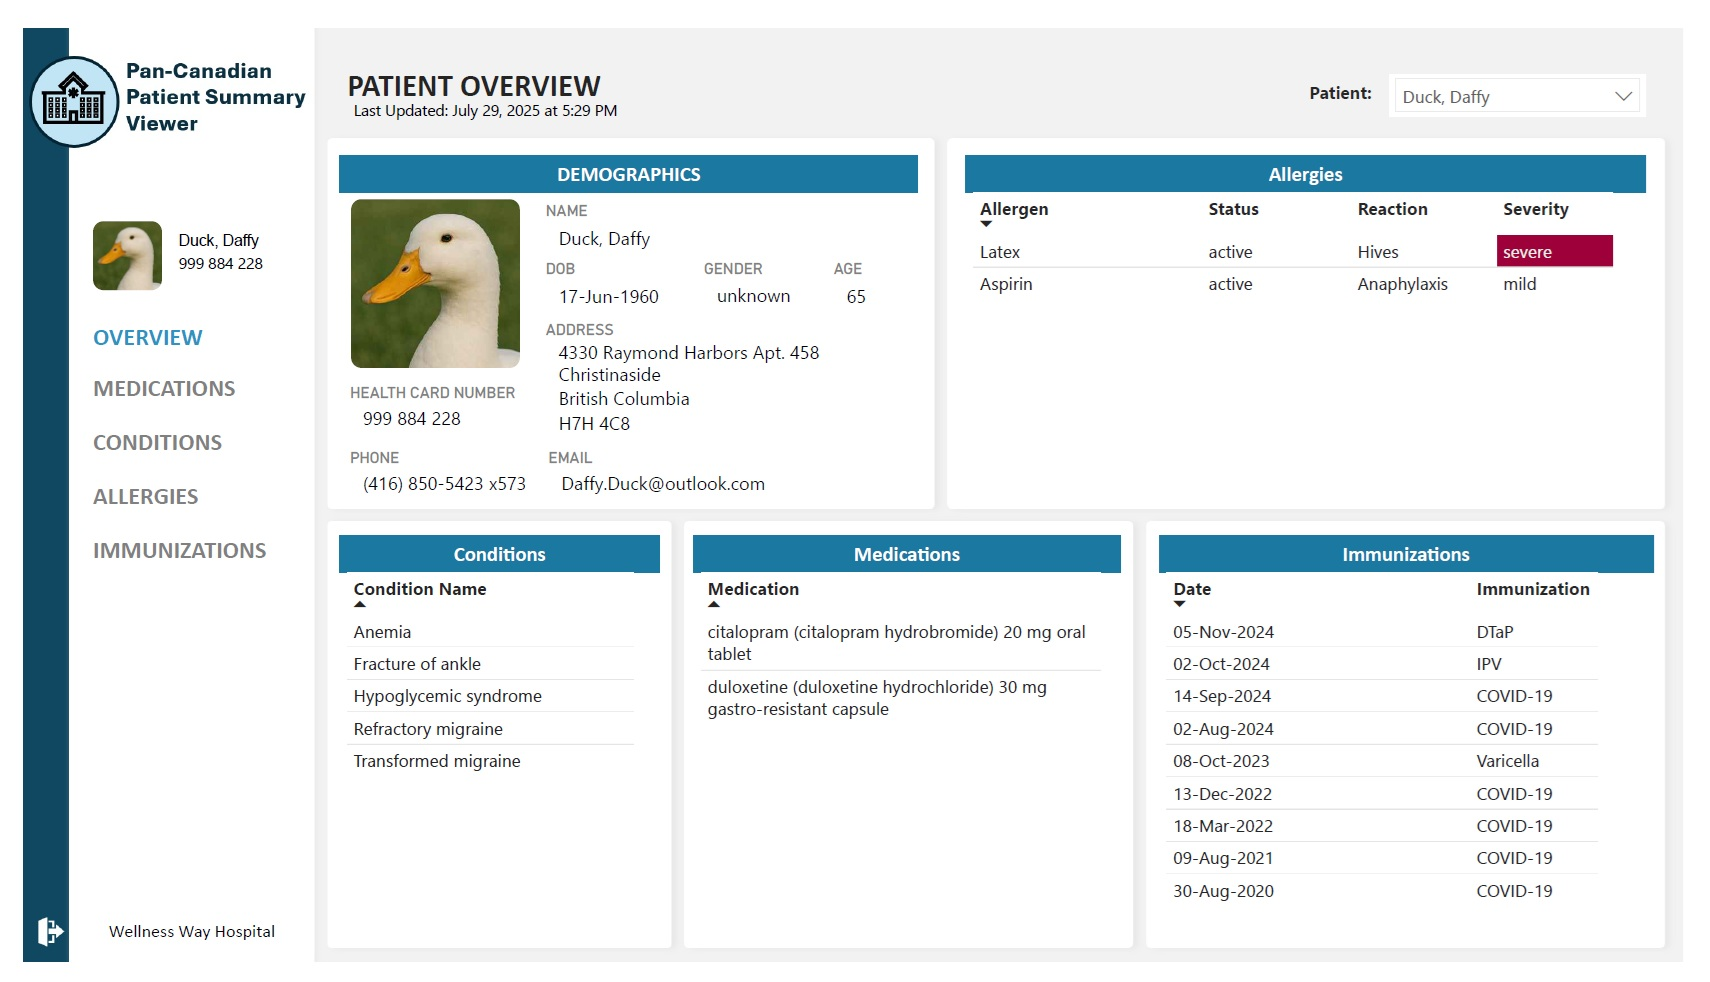
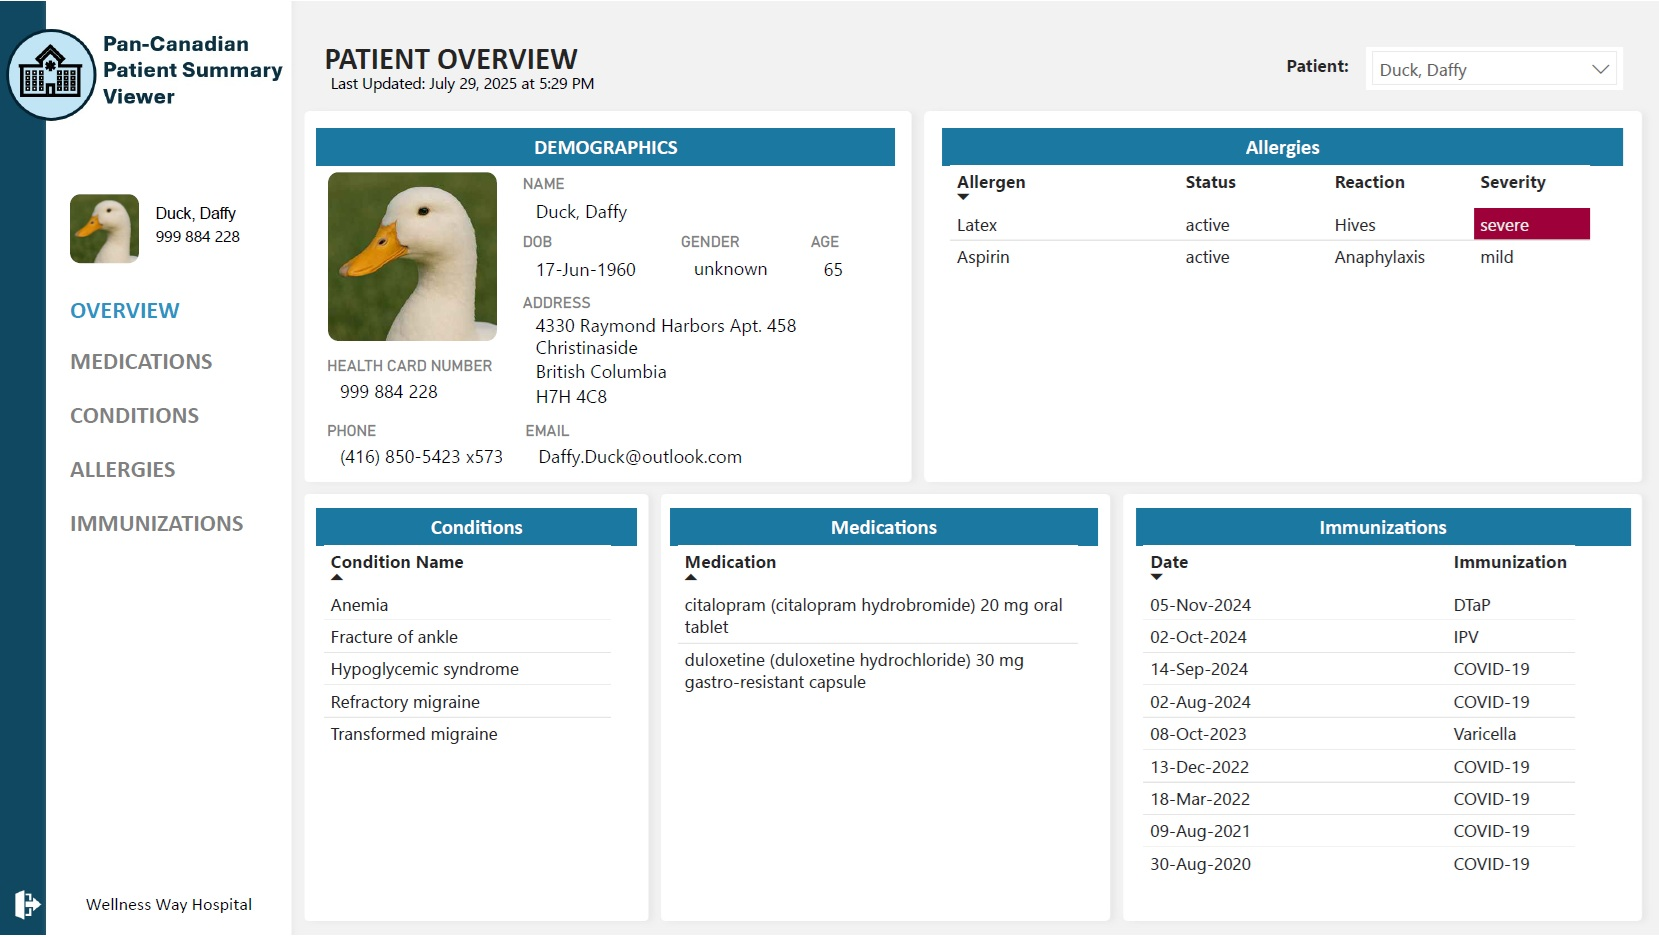
Fix sizing of Patient Overview page screenshot

diff --git a/docs/pan-canadian-patient-summary.md b/docs/pan-canadian-patient-summary.md
@@ -1,10 +1,6 @@
 # Pan-Canadian Patient Summary (PS-CA)
 
-## Introduction
-
-The Pan-Canadian Patient Summary (PS-CA) is a standardized extract of a patient’s health record designed to support continuity of care across borders and healthcare settings. It is based on the International Patient Summary (IPS) standard, and adapts this global framework to the Canadian context by incorporating national terminologies and jurisdiction-specific workflows.
-
-The PS-CA enables clinicians to access essential health information—such as medications, allergies, and health concerns—without needing to navigate multiple systems or sift through unstructured notes. It supports both scheduled and unscheduled care, and is designed to be usable across diverse technical environments, including legacy systems and modern FHIR-based platforms.
+The [Pan-Canadian Patient Summary (PS-CA)](https://www.infoway-inforoute.ca/en/featured-initiatives/patient-summary) is a standardized extract of a patient’s health record designed to support continuity of care across borders and healthcare settings. It is based on the International Patient Summary (IPS) standard, and adapts this global framework to the Canadian context by incorporating national terminologies and jurisdiction-specific workflows. It enables clinicians to access essential health information—such as medications, allergies, and health concerns—without needing to navigate multiple systems or sift through unstructured notes. It supports both scheduled and unscheduled care, and is designed to be usable across diverse technical environments, including legacy systems and modern FHIR-based platforms.
 
 ![Screenshot of IPS composition showing required sections as: Header (subject, author, attester, custodian), Medication Summary, Allergies & Intolerances, and Problem List](images/ips-composition.png)
 (Image Source: https://build.fhir.org/ig/HL7/fhir-ips/Structure-of-the-International-Patient-Summary.html)
@@ -14,7 +10,6 @@ The PS-CA enables clinicians to access essential health information—such as me
 - [Connected Care: The Power of the Patient Summary](https://youtu.be/LXLj0ElsRNg?si=D8Q_G8KvZu4vgfu6)
 - [What Connected Care Means to the Future of Canada's Health Care System](https://youtu.be/XoqzMAULasg?si=yuLXjGBJvAWEVZ8i)
 - [DevDays (2024):  Moving to "Real" International Patient Summary (IPS) Implementations (Robert Hausam)](https://youtu.be/I86G6PyoVrg?si=_v1ChxnK1lovMWea)
-
 - [IHE North America (2024): The International Patient Summary: A Worldwide Initiative](https://youtu.be/HKmmZQTK6BU?si=FrcU6xVTF7AhaRLD)
 - [IHE Europe (2023): The Pan Canadian Patient Summary](https://youtu.be/YLsvI5GUc30?si=PUktY4Y5YWXuH-Cz)
 - [Infoway Partnership Conference (2023): Demonstrating the Value of a Patient Summary](https://www.youtube.com/watch?v=s4sfMFB56mI&list=PLD40L51Q1YDhQMuduy9XJSnSG7s0vHOWD)
@@ -27,15 +22,10 @@ The PS-CA enables clinicians to access essential health information—such as me
 
 ## Interoperability
 
-Interoperability is foundational to the PS-CA. According to the Health Information Management Systems Society (HIMSS), it encompasses the ability of systems to access, exchange, integrate, and cooperatively use data across organizational and national boundaries. 
+Interoperability is foundational to the PS-CA. According to the [Health Information Management Systems Society (HIMSS)](https://legacy.himss.org/resources/interoperability-healthcare), it encompasses the ability of systems to access, exchange, integrate, and cooperatively use data across organizational and national boundaries. 
 
 ![Graphic displaying the levels of interoperability](images/interoperability.jpg)
 (Image Source: Adebesin, F., Foster, R., Kotzé, P., & Van Greunen, D. (2013). A Review of Interoperability Standards in E-health and Imperatives for their Adoption in Africa. South African Computer Journal, 50. https://doi.org/10.18489/sacj.v50i1.176)
-
-### Learn More
-- [HIMSS Interoperability Website](https://legacy.himss.org/resources/interoperability-healthcare)
-- [Connected Care. A Healthier Canada. Powered By Interoperability](https://youtu.be/A93_7N99HmY?si=n1fXUyWTd6cM3vk2)
-- [Pan Canadian Health Data Strategy Presentation (2023)](https://youtu.be/VAqCDZS3QuA?si=-6Lj12-SuxUtBiyW)
 
 The PS-CA supports:
 
@@ -43,26 +33,30 @@ The PS-CA supports:
 - Structural interoperability: Data follows consistent formats, such as HL7 FHIR.
 - Semantic interoperability: Shared terminologies ensure consistent meaning.
 
+### Learn More
+#### YouTube
+- [Connected Care. A Healthier Canada. Powered By Interoperability](https://youtu.be/A93_7N99HmY?si=n1fXUyWTd6cM3vk2)
+- [Pan Canadian Health Data Strategy Presentation (2023)](https://youtu.be/VAqCDZS3QuA?si=-6Lj12-SuxUtBiyW)
 
 ## Health Information Exchange Standards
 
 The PS-CA is built on a suite of health information exchange standards that define how data is structured, transmitted, and interpreted:
 
-- ISO 27269: Defines the abstract model for the IPS.
-- HL7 FHIR: A modern, web-based standard for health data exchange.
-- IHE Profiles: Define real-world workflows, actors, and transactions for IPS exchange.
+- [ISO 27269](https://www.iso.org/standard/79491.html): Defines the abstract model for the IPS.
+- [HL7 FHIR](https://infocentral.infoway-inforoute.ca/en/standards/canadian/fhir): A modern, web-based standard for health data exchange.
+- [IHE Profiles](https://www.ihe.net/news/ihe-releases-the-international-patient-summary-ips-profile/): Define real-world workflows, actors, and transactions for IPS exchange.
 
-Canada Health Infoway’s PS-CA Interoperability Specification supports both FHIR and CDA formats, promoting broad adoption across provinces and territories.
+Canada Health Infoway’s [PS-CA Interoperability Specification](https://infoscribe.infoway-inforoute.ca/display/PSCAV1TI/ImplementationGuide) supports both FHIR and CDA formats, promoting broad adoption across provinces and territories.
 
 ## Controlled Terminology Standards
 
 Terminologies and value sets ensure that exchanged data is meaningful and consistently interpreted. The PS-CA uses:
 
-- SNOMED CT Canadian Edition: For clinical concepts.
-- LOINC and pCLOCD: For lab and observation data.
-- CCDD: For medication data.
+- [SNOMED CT Canadian Edition](https://accelero.infoway-inforoute.ca/en/standards/terminology-standards/snomed-ct-snomed-ct-ca): For clinical concepts.
+- [pan-Canadian LOINC Observation Code Database (pCLOCD)](https://accelero.infoway-inforoute.ca/en/standards/terminology-standards/pclocd): For lab and observation data.
+- [Canadian Clinical Drug Data Set (CCDD)](https://accelero.infoway-inforoute.ca/en/standards/terminology-standards/canadian-clinical-drug-data-set): For medication data.
 
-These terminologies are maintained by Canada Health Infoway and distributed via the Canadian Standards Release Centre and Terminology Gateway. Value sets are curated subsets of these terminologies, and data elements in the PS-CA are bound to them with varying levels of strictness (e.g., required, preferred, example, etc.).
+These terminologies are maintained by Canada Health Infoway and distributed via the [Canadian Standards Release Centre](https://accelero.infoway-inforoute.ca/en/standards/terminology-standards) and [Terminology Gateway](https://tgateway.infoway-inforoute.ca/). Value sets are curated subsets of these terminologies, and data elements in the PS-CA are bound to them with varying levels of strictness (e.g., required, preferred, example, etc.).
 
 ### Learn More
 #### Websites
